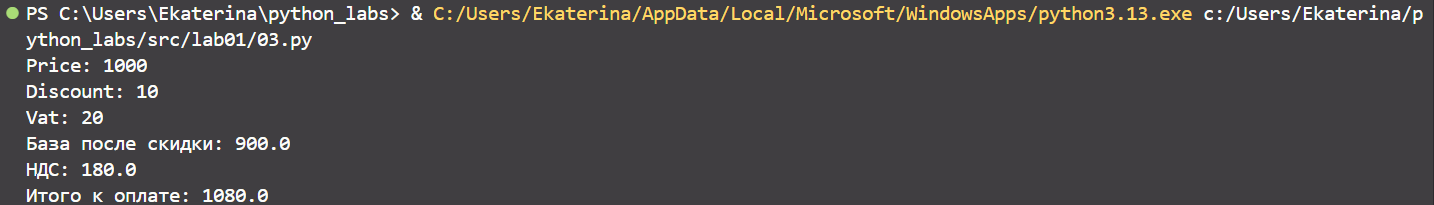
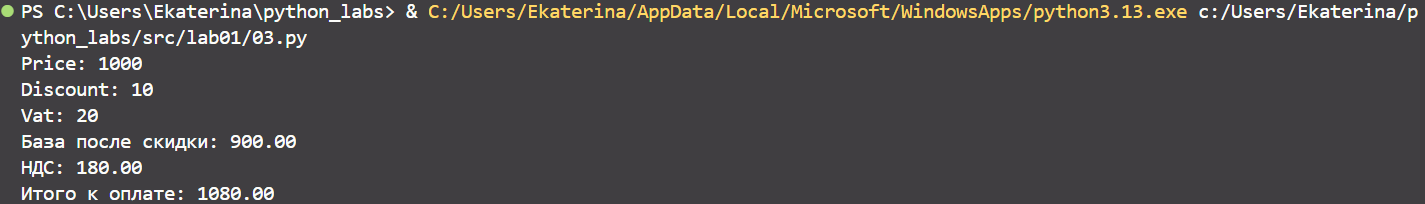
ex3

diff --git a/src/lab01/03.py b/src/lab01/03.py
@@ -4,6 +4,6 @@ vat = float(input("Vat: "))
 base = price * (1-discount/100)
 vat_amount = base * (vat/100)
 total = base + vat_amount
-print(f'База после скидки: {base}')
-print(f'НДС: {vat_amount}')
-print(f'Итого к оплате: {total}')
+print(f'База после скидки: {base:.2f}')
+print(f'НДС: {vat_amount:.2f}')
+print(f'Итого к оплате: {total:.2f}')
